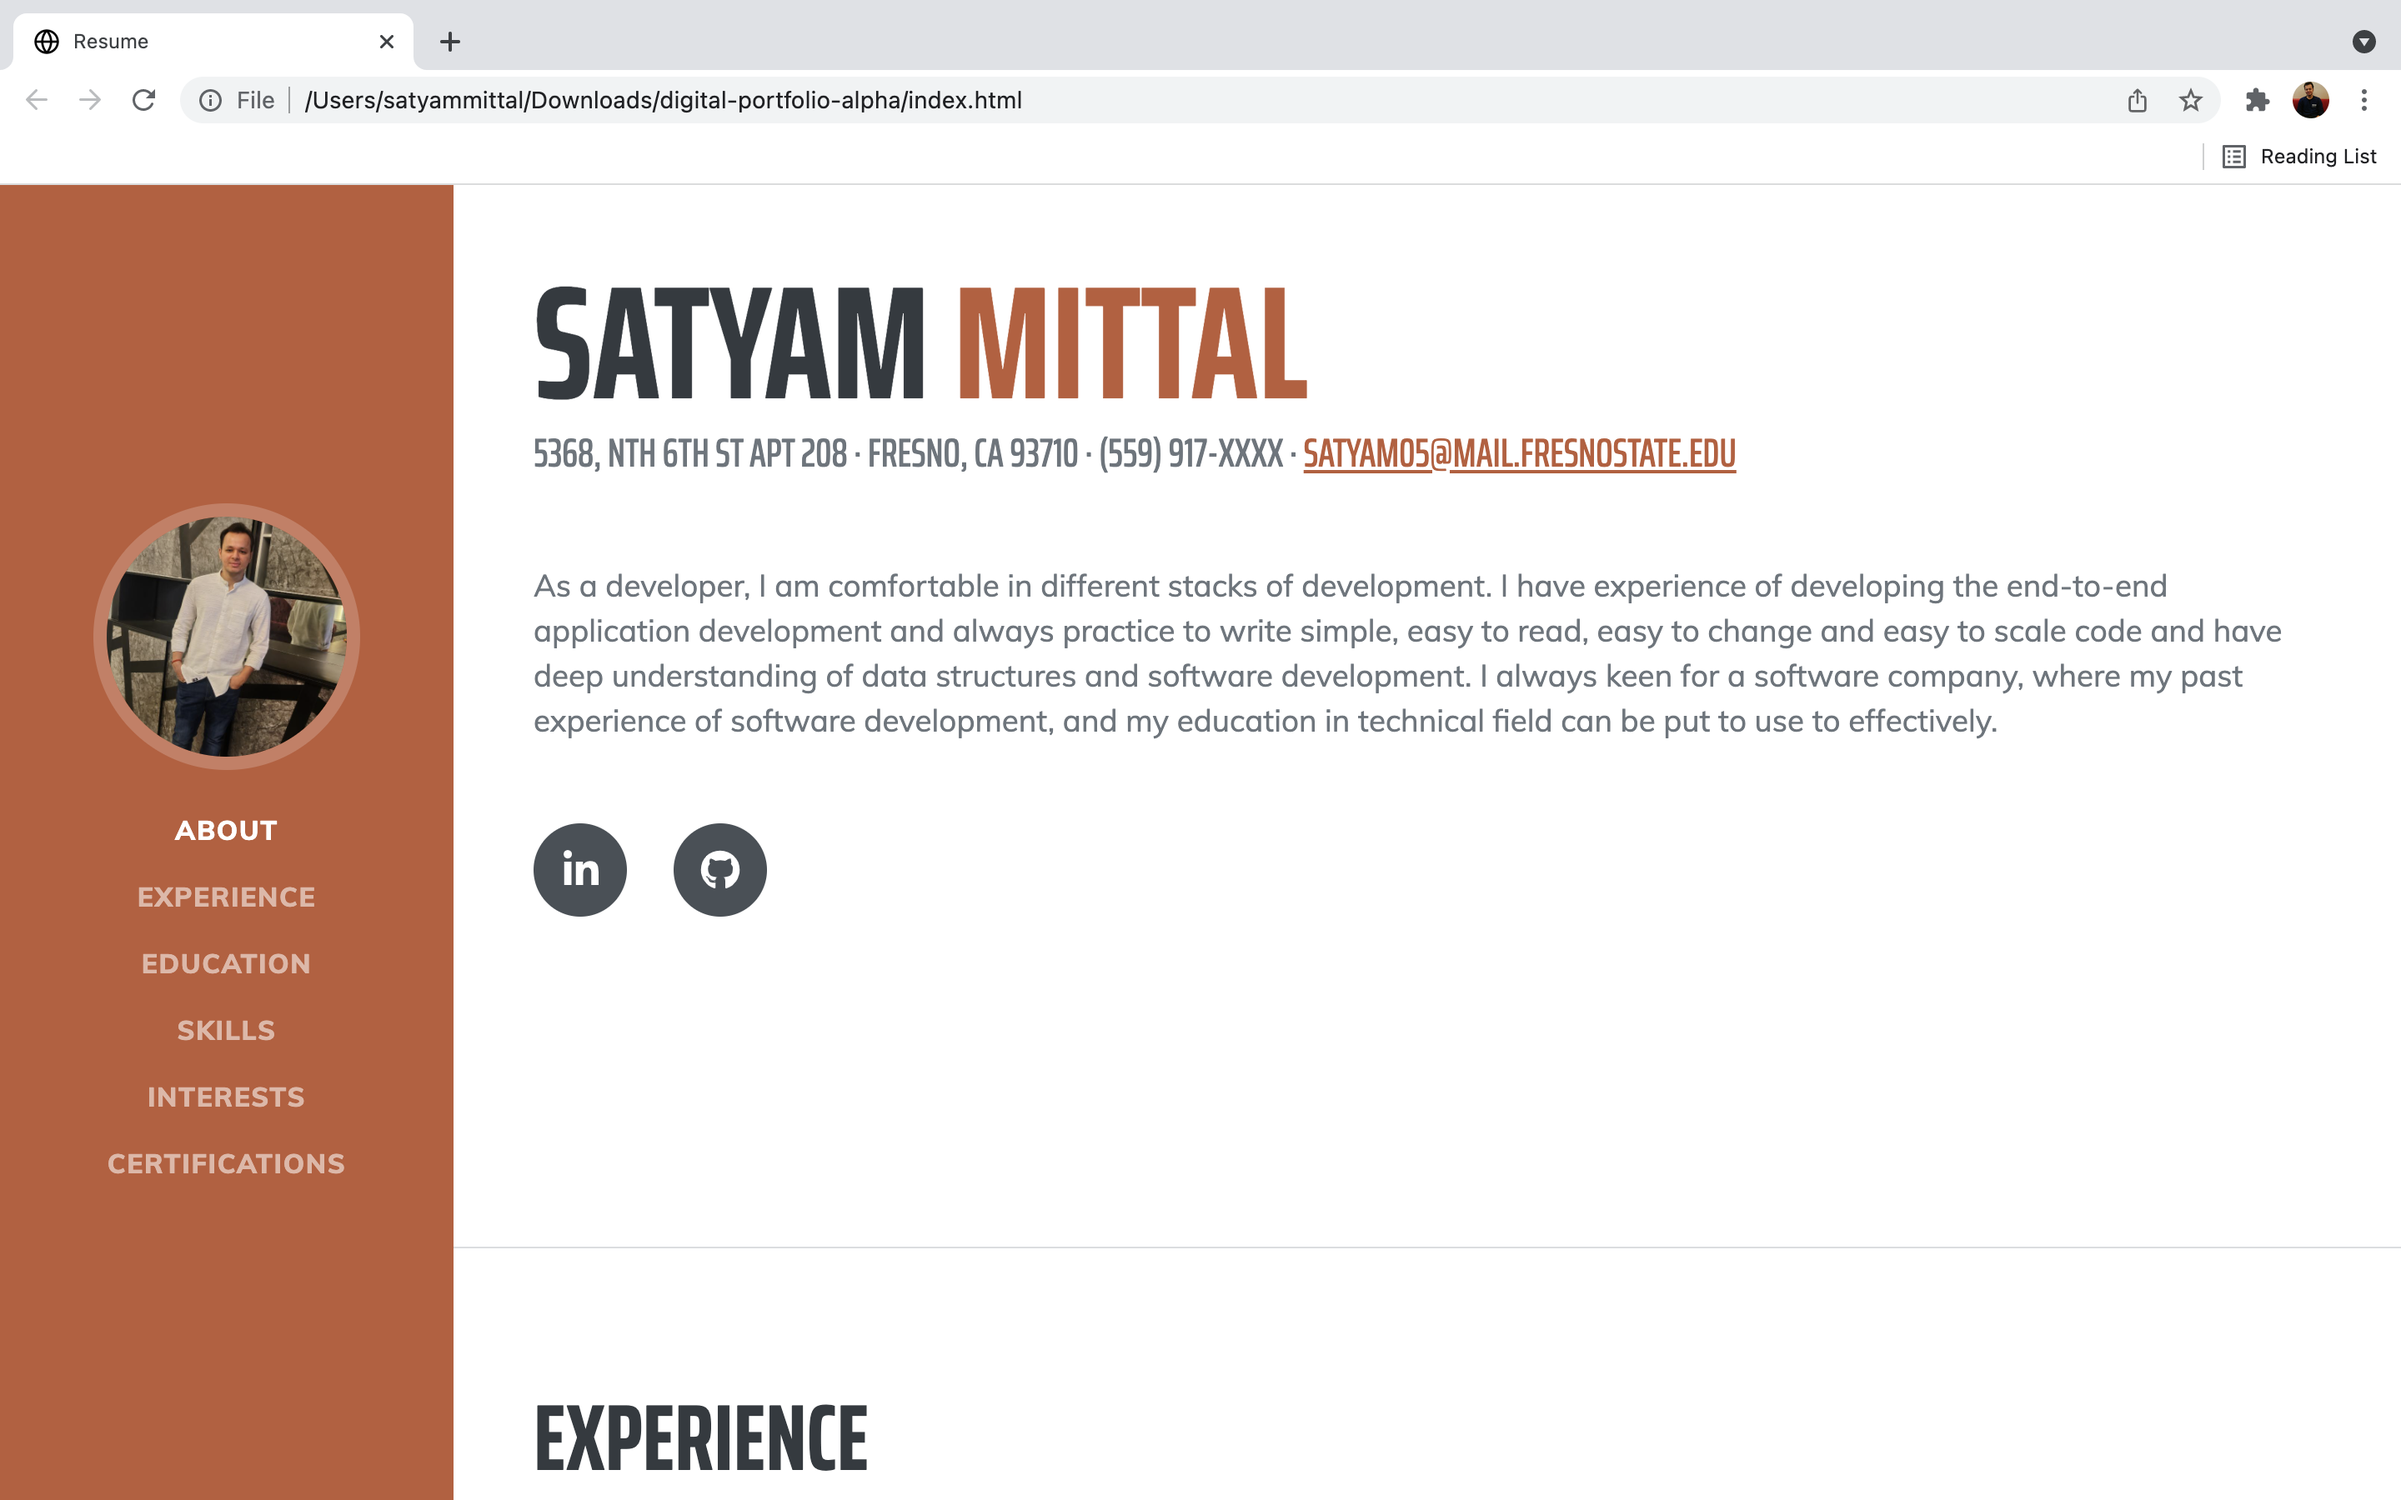
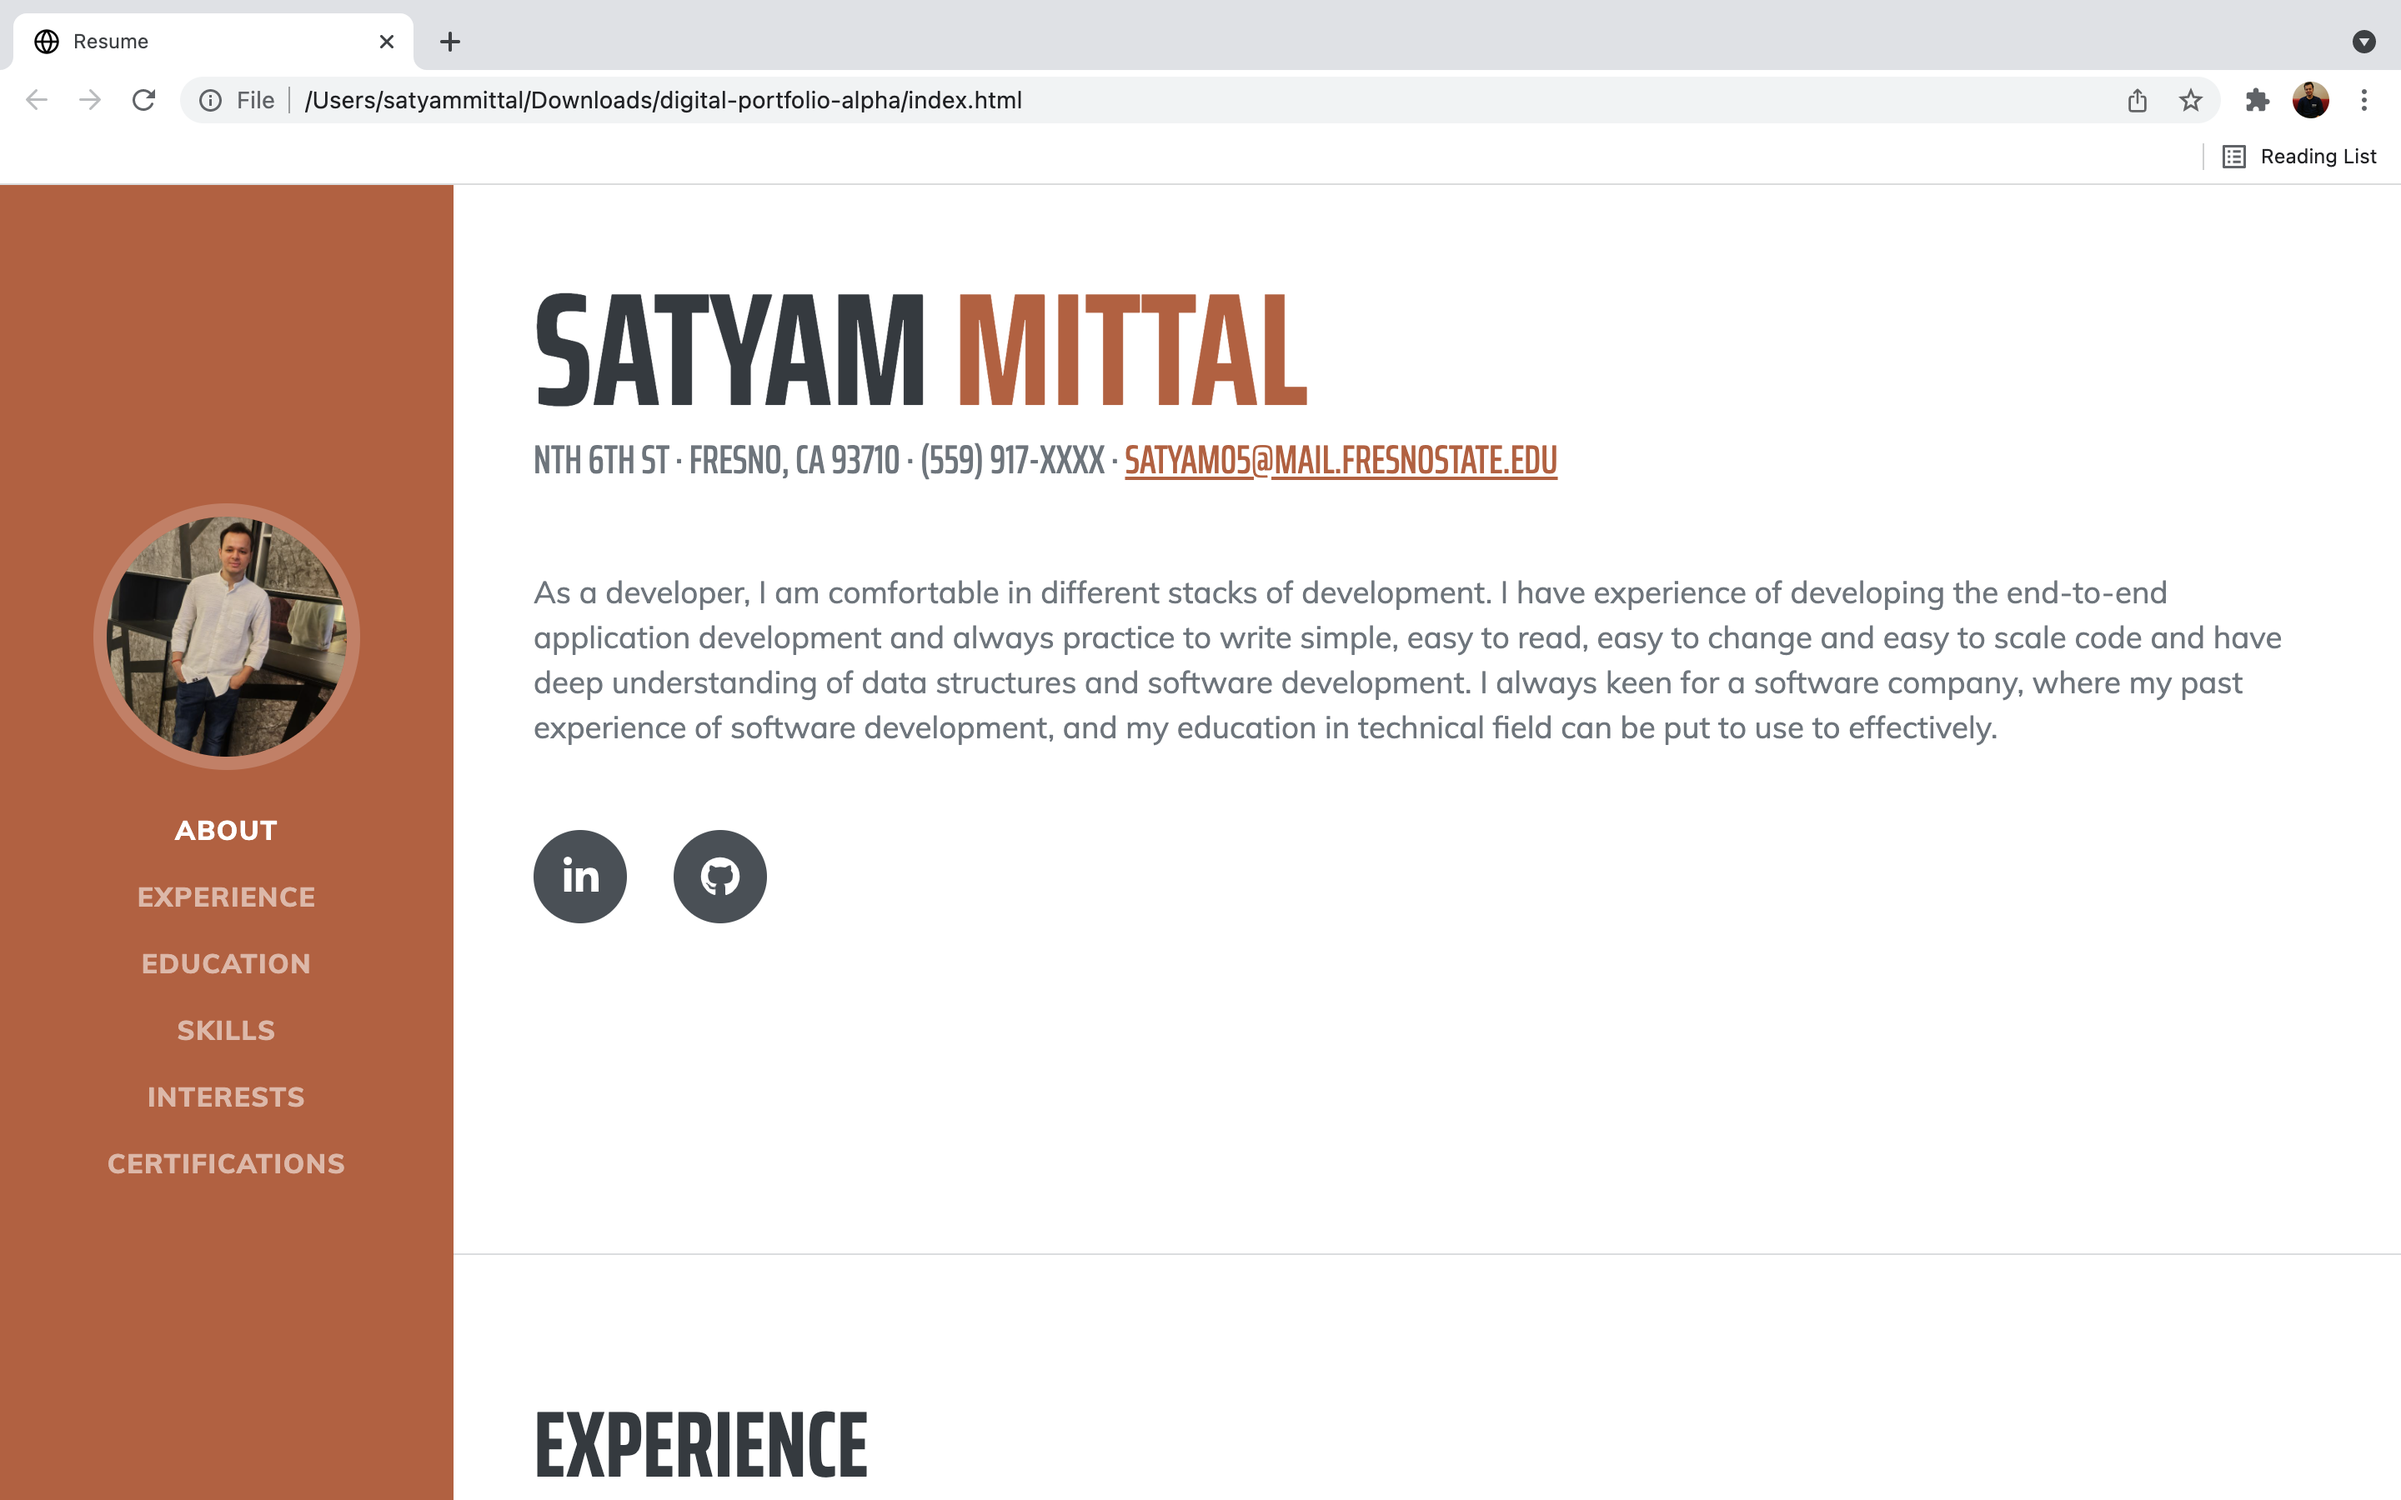
content change

diff --git a/index.html b/index.html
@@ -44,7 +44,7 @@
                         <span class="text-primary">Mittal</span>
                     </h1>
                     <div class="subheading mb-5">
-                        5368, Nth 6Th st apt 208 · Fresno, CA 93710 · (559) 917-XXXX ·
+                        Nth 6Th st · Fresno, CA 93710 · (559) 917-XXXX ·
                         <a href="satyam05@mail.fresnostate.edu">satyam05@mail.fresnostate.edu</a>
                     </div>
                     <p class="lead mb-5">As a developer, I am comfortable in different stacks of development. I have experience of developing the end-to-end application development and always practice to write simple, easy to read, easy to change and easy to scale code and have deep understanding of data structures and software development.
